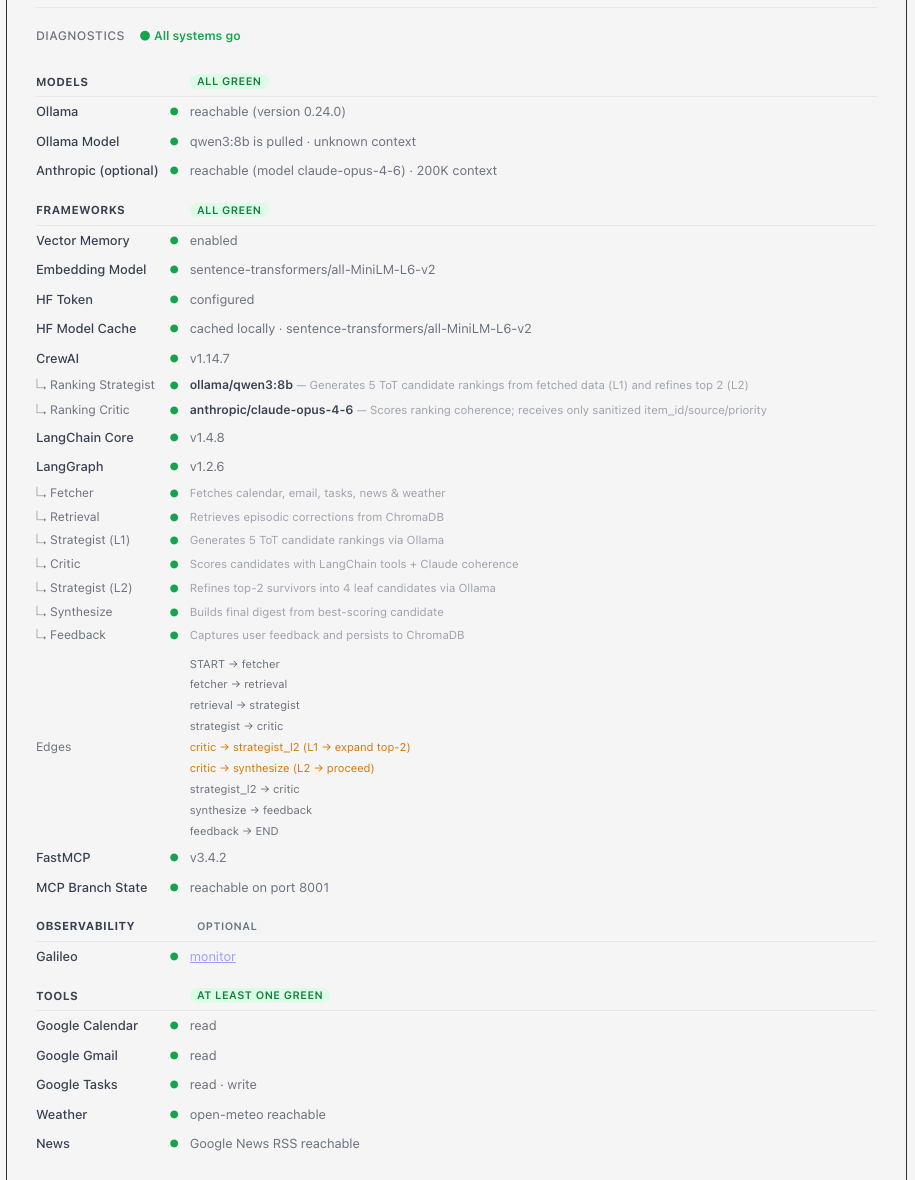
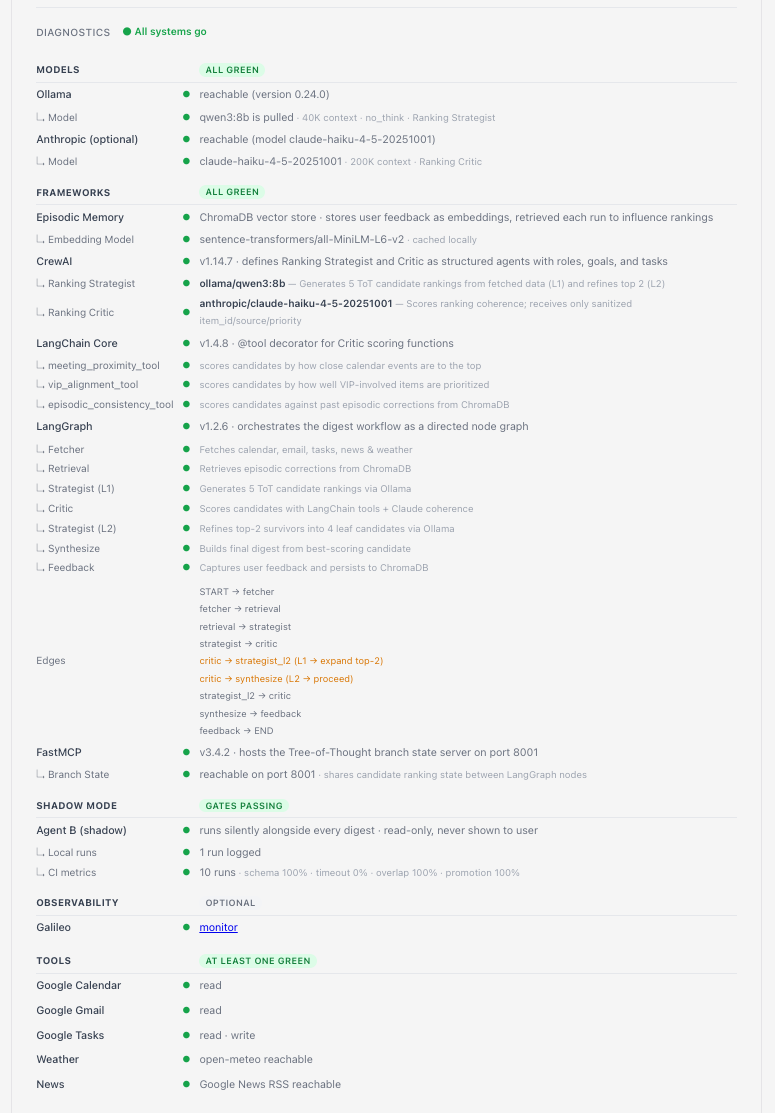
update diagnostics panel with shadow mode, framework roles, and fix shadow log bug
- DiagnosticsPanel: child rows (↳) for Ollama/Anthropic models, Episodic Memory,
  FastMCP Branch State, and LangChain Core tools (meeting_proximity, vip_alignment,
  episodic_consistency); add Shadow Mode section with local run count and CI metrics
- server.py: add _check_shadow() to health endpoint; add model field to anthropic response
- key_highlights_agent.py: fix shadow log never written — _split_items and
  _extract_current_highlights now handle list-of-dict sections from digest_output
- workflow_controller.py: pass digest_output directly to shadow call instead of
  build_digest_payload(raw_fetched_data) which caused 'expected string, got dict'
- README: name three Critic tools, document episodic memory dual influence
  (Strategist + Critic), add diagnostics shadow section note, update screenshot

diff --git a/web/src/components/DiagnosticsPanel.tsx b/web/src/components/DiagnosticsPanel.tsx
@@ -100,25 +100,35 @@ export function DiagnosticsPanel({ refresh = 0 }: Props) {
               status={health.ollama.reachable ? "ok" : "err"}
               detail={health.ollama.detail}
             />
-            <Row
-              label="Ollama Model"
-              status={health.ollama_model.available ? "ok" : "err"}
-              detail={(() => {
-                const parts = [health.ollama_model.detail];
-                if (health.ollama_model.available && health.ollama_model.context_window)
-                  parts.push(`${health.ollama_model.context_window} context`);
-                if (health.ollama_model.available && health.ollama_model.think_disabled)
-                  parts.push("no_think");
-                return parts.join(" · ");
-              })()}
-            />
+            <tr className="diag-agent-row">
+              <td className="diag-label diag-agent-label">↳ Model</td>
+              <td className={`diag-icon ${health.ollama_model.available ? "diag-ok" : "diag-err"}`}>●</td>
+              <td className="diag-detail">
+                <span>{health.ollama_model.detail}</span>
+                <span className="diag-agent-purpose">
+                  {health.ollama_model.available && health.ollama_model.context_window && ` · ${health.ollama_model.context_window} context`}
+                  {health.ollama_model.available && health.ollama_model.think_disabled && " · no_think"}
+                  {health.ollama_model.available && " · Ranking Strategist"}
+                </span>
+              </td>
+            </tr>
             <Row
               label="Anthropic (optional)"
               status={health.anthropic.reachable ? "ok" : "warn"}
-              detail={health.anthropic.reachable
-                ? `${health.anthropic.detail} · ${health.anthropic.context_window ?? "200K"} context`
-                : `${health.anthropic.detail} — critic will use Ollama`}
+              detail={health.anthropic.reachable ? health.anthropic.detail : `${health.anthropic.detail} — critic will use Ollama`}
             />
+            <tr className="diag-agent-row">
+              <td className="diag-label diag-agent-label">↳ Model</td>
+              <td className={`diag-icon ${health.anthropic.reachable ? "diag-ok" : "diag-warn"}`}>●</td>
+              <td className="diag-detail">
+                <span>{health.anthropic.model}</span>
+                <span className="diag-agent-purpose">
+                  {health.anthropic.reachable
+                    ? ` · ${health.anthropic.context_window ?? "200K"} context · Ranking Critic`
+                    : " — not active"}
+                </span>
+              </td>
+            </tr>
 
             <SectionHeader
               title="Frameworks"
@@ -129,33 +139,30 @@ export function DiagnosticsPanel({ refresh = 0 }: Props) {
               }
             />
             <Row
-              label="Vector Memory"
+              label="Episodic Memory"
               status={health.memory["vector_enabled"] ? "ok" : "err"}
-              detail={health.memory["vector_enabled"] ? "enabled" : String(health.memory["backend_error"] || "unavailable")}
-            />
-            <Row
-              label="Embedding Model"
-              status={health.memory["vector_enabled"] ? "ok" : "warn"}
-              detail={String(health.memory["embedding_model"] || "unknown")}
-            />
-            <Row
-              label="HF Token"
-              status={health.huggingface.token_configured ? "ok" : "warn"}
-              detail={health.huggingface.token_configured ? "configured" : "not set — unauthenticated (rate limited)"}
-            />
-            <Row
-              label="HF Model Cache"
-              status={health.huggingface.model_cached ? "ok" : "warn"}
               detail={
-                health.huggingface.model_cached
-                  ? `cached locally · ${health.huggingface.embedding_model}`
-                  : `not cached · will download on first use`
+                health.memory["vector_enabled"]
+                  ? "ChromaDB vector store · stores user feedback as embeddings, retrieved each run to influence rankings"
+                  : String(health.memory["backend_error"] || "unavailable")
               }
             />
+            <tr className="diag-agent-row">
+              <td className="diag-label diag-agent-label">↳ Embedding Model</td>
+              <td className={`diag-icon ${health.huggingface.model_cached ? "diag-ok" : "diag-warn"}`}>●</td>
+              <td className="diag-detail">
+                <span>{String(health.memory["embedding_model"] || health.huggingface.embedding_model || "unknown")}</span>
+                <span className="diag-agent-purpose">
+                  {" · "}
+                  {health.huggingface.model_cached ? "cached locally" : "not cached — will download on first use"}
+                  {!health.huggingface.token_configured && " · HF token not set (rate limited)"}
+                </span>
+              </td>
+            </tr>
             <Row
               label="CrewAI"
               status={health.crewai.available ? "ok" : "err"}
-              detail={health.crewai.detail}
+              detail={`${health.crewai.detail} · defines Ranking Strategist and Critic as structured agents with roles, goals, and tasks`}
             />
             {health.crewai.agents.map((agent) => (
               <tr key={agent.role} className="diag-agent-row">
@@ -170,12 +177,23 @@ export function DiagnosticsPanel({ refresh = 0 }: Props) {
             <Row
               label="LangChain Core"
               status={health.langchain.available ? "ok" : "err"}
-              detail={health.langchain.detail}
+              detail={`${health.langchain.detail} · @tool decorator for Critic scoring functions`}
             />
+            {([
+              ["meeting_proximity_tool",    "scores candidates by how close calendar events are to the top"],
+              ["vip_alignment_tool",        "scores candidates by how well VIP-involved items are prioritized"],
+              ["episodic_consistency_tool", "scores candidates against past episodic corrections from ChromaDB"],
+            ] as [string, string][]).map(([name, purpose]) => (
+              <tr key={name} className="diag-agent-row">
+                <td className="diag-label diag-agent-label">↳ {name}</td>
+                <td className={`diag-icon ${health.langchain.available ? "diag-ok" : "diag-err"}`}>●</td>
+                <td className="diag-detail diag-agent-purpose">{purpose}</td>
+              </tr>
+            ))}
             <Row
               label="LangGraph"
               status={health.langgraph.available ? "ok" : "err"}
-              detail={health.langgraph.detail}
+              detail={`${health.langgraph.detail} · orchestrates the digest workflow as a directed node graph`}
             />
             {health.langgraph.graph && (
               <>
@@ -202,13 +220,52 @@ export function DiagnosticsPanel({ refresh = 0 }: Props) {
             <Row
               label="FastMCP"
               status={health.fastmcp.available ? "ok" : "err"}
-              detail={health.fastmcp.detail}
+              detail={`${health.fastmcp.detail} · hosts the Tree-of-Thought branch state server on port 8001`}
+            />
+            <tr className="diag-agent-row">
+              <td className="diag-label diag-agent-label">↳ Branch State</td>
+              <td className={`diag-icon ${health.mcp.available ? "diag-ok" : "diag-err"}`}>●</td>
+              <td className="diag-detail">
+                <span>{health.mcp.detail}</span>
+                <span className="diag-agent-purpose"> · shares candidate ranking state between LangGraph nodes</span>
+              </td>
+            </tr>
+
+            <SectionHeader
+              title="Shadow Mode"
+              badge={
+                <span className={health.shadow.gates_passed === true ? "diag-badge diag-ok" : health.shadow.gates_passed === false ? "diag-badge diag-err" : "diag-badge diag-optional"}>
+                  {health.shadow.gates_passed === true ? "gates passing" : health.shadow.gates_passed === false ? "gates failing" : "no data yet"}
+                </span>
+              }
             />
             <Row
-              label="MCP Branch State"
-              status={health.mcp.available ? "ok" : "err"}
-              detail={health.mcp.detail}
+              label="Agent B (shadow)"
+              status={health.shadow.enabled ? "ok" : "err"}
+              detail="runs silently alongside every digest · read-only, never shown to user"
             />
+            <tr className="diag-agent-row">
+              <td className="diag-label diag-agent-label">↳ Local runs</td>
+              <td className={`diag-icon ${health.shadow.run_count > 0 ? "diag-ok" : "diag-warn"}`}>●</td>
+              <td className="diag-detail">
+                {health.shadow.run_count > 0 ? `${health.shadow.run_count} run${health.shadow.run_count !== 1 ? "s" : ""} logged` : "no runs yet — run a digest to populate"}
+              </td>
+            </tr>
+            {health.shadow.metrics_total > 0 && (
+              <tr className="diag-agent-row">
+                <td className="diag-label diag-agent-label">↳ CI metrics</td>
+                <td className={`diag-icon ${health.shadow.gates_passed ? "diag-ok" : "diag-err"}`}>●</td>
+                <td className="diag-detail">
+                  <span>{health.shadow.metrics_total} runs</span>
+                  <span className="diag-agent-purpose">
+                    {health.shadow.valid_rate != null && ` · schema ${(health.shadow.valid_rate * 100).toFixed(0)}%`}
+                    {health.shadow.timeout_rate != null && ` · timeout ${(health.shadow.timeout_rate * 100).toFixed(0)}%`}
+                    {health.shadow.avg_overlap != null && ` · overlap ${(health.shadow.avg_overlap * 100).toFixed(0)}%`}
+                    {health.shadow.promotion_pass_rate != null && ` · promotion ${(health.shadow.promotion_pass_rate * 100).toFixed(0)}%`}
+                  </span>
+                </td>
+              </tr>
+            )}
 
             <SectionHeader
               title="Observability"

diff --git a/web/src/api.ts b/web/src/api.ts
@@ -25,7 +25,7 @@ export interface DigestResponse {
 export interface HealthResponse {
   ollama: { reachable: boolean; detail: string; url: string };
   ollama_model: { available: boolean; model: string; detail: string; context_window?: string | null; think_disabled?: boolean };
-  anthropic: { reachable: boolean; detail: string; context_window?: string };
+  anthropic: { reachable: boolean; detail: string; model: string; context_window?: string };
   google: Record<string, unknown>;
   memory: Record<string, unknown>;
   huggingface: {
@@ -75,6 +75,16 @@ export interface HealthResponse {
   };
   weather: { available: boolean; detail: string };
   news: { available: boolean; detail: string };
+  shadow: {
+    enabled: boolean;
+    run_count: number;
+    gates_passed: boolean | null;
+    valid_rate: number | null;
+    timeout_rate: number | null;
+    promotion_pass_rate: number | null;
+    avg_overlap: number | null;
+    metrics_total: number;
+  };
 }
 
 export interface Preferences {

diff --git a/server.py b/server.py
@@ -244,6 +244,40 @@ def _check_fastmcp() -> dict:
     return {"available": False, "version": None, "detail": "not installed"}
 
 
+def _check_shadow() -> dict:
+    """Return shadow mode status and latest metrics from log and reports."""
+    import json as _json
+    shadow_log = Path(__file__).parent / ".memory" / "key_highlights_shadow.jsonl"
+    metrics_file = Path(__file__).parent / "reports" / "latest_shadow_metrics.json"
+
+    run_count = 0
+    if shadow_log.exists():
+        try:
+            run_count = sum(1 for line in shadow_log.read_text().splitlines() if line.strip())
+        except Exception:
+            pass
+
+    metrics = None
+    if metrics_file.exists():
+        try:
+            metrics = _json.loads(metrics_file.read_text())
+        except Exception:
+            pass
+
+    stats = (metrics or {}).get("stats", {})
+    gates_passed = (metrics or {}).get("gates_passed", None)
+    return {
+        "enabled": True,
+        "run_count": run_count,
+        "gates_passed": gates_passed,
+        "valid_rate": stats.get("valid_rate"),
+        "timeout_rate": stats.get("timeout_rate"),
+        "promotion_pass_rate": stats.get("promotion_pass_rate"),
+        "avg_overlap": stats.get("avg_overlap"),
+        "metrics_total": stats.get("total", 0),
+    }
+
+
 def _check_weather() -> dict:
     """Probe the open-meteo geocoding endpoint used by weather_action."""
     import urllib.request as _ur
@@ -379,7 +413,7 @@ def health():
     return {
         "ollama": {"reachable": ollama_reachable, "detail": ollama_detail, "url": ollama_base_url},
         "ollama_model": _check_ollama_model(ollama_base_url),
-        "anthropic": {"reachable": anthropic_reachable, "detail": anthropic_detail, "context_window": _ANTHROPIC_CONTEXT_WINDOWS.get(critic_model, "200K")},
+        "anthropic": {"reachable": anthropic_reachable, "detail": anthropic_detail, "model": critic_model, "context_window": _ANTHROPIC_CONTEXT_WINDOWS.get(critic_model, "200K")},
         "google": google_status,
         "memory": memory_status,
         "huggingface": _check_huggingface(),
@@ -391,6 +425,7 @@ def health():
         "mcp": _check_mcp(),
         "weather": _check_weather(),
         "news": _check_news(),
+        "shadow": _check_shadow(),
     }
 
 

diff --git a/key_highlights_agent.py b/key_highlights_agent.py
@@ -10,8 +10,11 @@ SHADOW_LOG_PATH = Path(__file__).with_name(".memory") / "key_highlights_shadow.j
 ALLOWED_CATEGORIES = {"calendar", "emails", "tasks", "weather", "news", "mixed"}
 
 
-def _split_items(value: str, max_items: int = 5) -> List[str]:
-    """Split pipe-delimited text into compact list items."""
+def _split_items(value, max_items: int = 5) -> List[str]:
+    """Split pipe-delimited text or a list of DigestItem dicts into strings."""
+    if isinstance(value, list):
+        items = [item["text"] if isinstance(item, dict) else str(item) for item in value if item]
+        return items[:max_items]
     items = [part.strip() for part in (value or "").split("|") if part.strip()]
     return items[:max_items]
 
@@ -19,7 +22,12 @@ def _split_items(value: str, max_items: int = 5) -> List[str]:
 def _extract_current_highlights(payload: dict, max_items: int = 5) -> List[str]:
     """Extract currently-rendered key highlights from payload for shadow comparison."""
     sections = (payload or {}).get("sections", {}) or {}
-    return _split_items(sections.get("key_highlights", ""), max_items=max_items)
+    raw = sections.get("key_highlights", "")
+    # API/JSON payload has sections as lists of {"text": ...} dicts; flatten to strings
+    if isinstance(raw, list):
+        items = [item["text"] if isinstance(item, dict) else str(item) for item in raw if item]
+        return items[:max_items]
+    return _split_items(raw, max_items=max_items)
 
 
 def _overlap_ratio(current_items: List[str], shadow_items: List[str]) -> float:
@@ -47,7 +55,7 @@ def build_agent_b_input(payload: dict) -> dict:
         "digest_title": (payload or {}).get("title", "Daily Digest"),
         "date_time": f"{(payload or {}).get('date', 'Unknown')} | {(payload or {}).get('time', 'Unknown')}",
         "location": (payload or {}).get("location", "Unknown"),
-        "weather": sections.get("weather", "Unknown"),
+        "weather": " ".join(_split_items(sections.get("weather", "Unknown"), 3)) or "Unknown",
         "news_items": [{"title": item, "source": "", "url": ""} for item in _split_items(sections.get("news", ""), 8)],
         "calendar_items": [{"summary": item, "start": "", "end": "", "attendees": []} for item in _split_items(sections.get("calendar", ""), 8)],
         "task_items": [{"title": item, "status": "", "due": ""} for item in _split_items(sections.get("tasks", ""), 8)],

diff --git a/workflow_controller.py b/workflow_controller.py
@@ -156,12 +156,12 @@ def feedback_node(state: WorkflowState) -> WorkflowState:
     _require(isinstance(digest_output, (dict, str)) and bool(digest_output),
              "feedback", "digest_output is empty — synthesize_node must produce output before feedback")
 
-    # Run shadow Agent B comparison in background — never blocks or fails the main pipeline
+    # Run shadow Agent B comparison — never blocks or fails the main pipeline
     try:
         import uuid as _uuid
         from key_highlights_agent import run_key_highlights_shadow, log_shadow_comparison
-        from digest_rendering import build_digest_payload
-        payload = build_digest_payload(state.get("raw_fetched_data") or {})
+        # digest_output already has the rendered sections as strings — pass it directly
+        payload = digest_output if isinstance(digest_output, dict) else {}
         run_id = _uuid.uuid4().hex[:8]
         result = run_key_highlights_shadow(payload)
         log_shadow_comparison(payload, result, run_id)

diff --git a/README.md b/README.md
@@ -227,6 +227,8 @@ Once the app is running at **http://localhost:8000**:
 
    The more specific the feedback, the better — the episodic memory matches on keywords from the current run context. Corrections are applied in two ways: soft (included in the LLM prompt as mandatory rules) and hard (enforced deterministically in Python after candidate selection, regardless of LLM output).
 
+   Episodic memory influences the pipeline at two points: it is injected into the **Strategist** prompt as mandatory ranking instructions, and it is also queried by the **Critic** during scoring via `episodic_consistency_tool` — which penalizes candidates that contradict past corrections. This means a stored correction shapes both which candidates are generated and how they are evaluated.
+
    **Hard-coded rules (always enforced, not configurable via feedback):**
    - Overdue tasks are forced to `high` priority and injected at the top of key highlights — even if the Strategist omitted them entirely
    - When a VIP calendar attendee also has a recent email thread, a Google Tasks follow-up reminder is created automatically — this is deterministic Python logic, not LLM-driven. It is idempotent (a marker in the task notes prevents duplicates across runs)
@@ -366,6 +368,8 @@ Agent B runs silently on every digest and logs results to `.memory/key_highlight
 
 **Lab UI** — a dedicated shadow comparison page is available at `http://localhost:8000/shadow`. It shows each run as a card with Agent A and Agent B highlights side by side, overlap ratio, ordering changes, confidence, and schema validity badges. A **Lab** button in the main nav opens it in a new tab.
 
+**Diagnostics panel** — the main app diagnostics panel includes a Shadow Mode section showing local run count and the latest CI gate results (schema validity, timeout rate, overlap, promotion pass rate) at a glance. A stuck run counter or a failing gate is immediately visible without running any scripts.
+
 Prepare the CI contract log snapshot:
 
 ```bash
@@ -466,7 +470,7 @@ The app has two processes: a FastAPI backend (`server.py`, port 8000) that hosts
 | **HuggingFace** | Model hub where the embedding model is downloaded from on first run. No account required — the model is public — but setting a `HF_TOKEN` avoids download rate limits that can slow or block the first startup |
 | **Ollama** | Local LLM server that hosts qwen3:8b on your machine. The Ranking Strategist sends prompts to Ollama via HTTP — no data leaves your machine for the local model |
 | **Prompt Redaction** | Two-layer privacy boundary: `_sanitize_items_for_llm()` in `ranking_strategist.py` converts raw signal flags to natural-language hints before the Strategist (Ollama) sees items; `prompt_redaction.py` strips all personal content before the Critic (Claude) is called. Neither model receives raw email addresses, names, or contact details |
-| **Critic Tools** | The Ranking Critic doesn't rely purely on LLM judgment — `critic_tools.py` provides deterministic LangChain tool wrappers (e.g. schema validation, overlap scoring) that the Critic calls during candidate evaluation. This makes scoring more consistent and auditable |
+| **Critic Tools** | The Ranking Critic doesn't rely purely on LLM judgment — `critic_tools.py` provides three deterministic LangChain `@tool` wrappers that the Critic calls during candidate evaluation: `meeting_proximity_tool` (scores how close calendar events are to the top), `vip_alignment_tool` (scores how well VIP-involved items are prioritized), and `episodic_consistency_tool` (queries ChromaDB and scores candidates against past feedback corrections — closing the loop between episodic memory and Critic scoring). This makes scoring structured, consistent, and auditable |
 | **Digest Rendering** | `digest_rendering.py` is a deterministic fallback renderer. If the LLM returns malformed or unparseable output, the pipeline falls back to this to produce a valid digest from raw observations rather than failing |
 | **Shadow Mode** | `key_highlights_agent.py` runs a silent parallel Agent B on every digest, logs its output to `.memory/key_highlights_shadow.jsonl`, and validates it against quality gates — but never shows it to the user. See [Shadow Mode as an A/B Testing Framework](#shadow-mode-as-an-ab-testing-framework-run-a-challenger-agent-silently-never-shown-to-the-user) for the full design rationale and production roadmap |
 | **Galileo** | Optional LLM observability platform. When enabled (`GALILEO_OBSERVABILITY_ENABLED=1`), emits trace events (latency, token counts, node timings) for every LLM call to a Galileo dashboard — useful for debugging and tuning the pipeline |